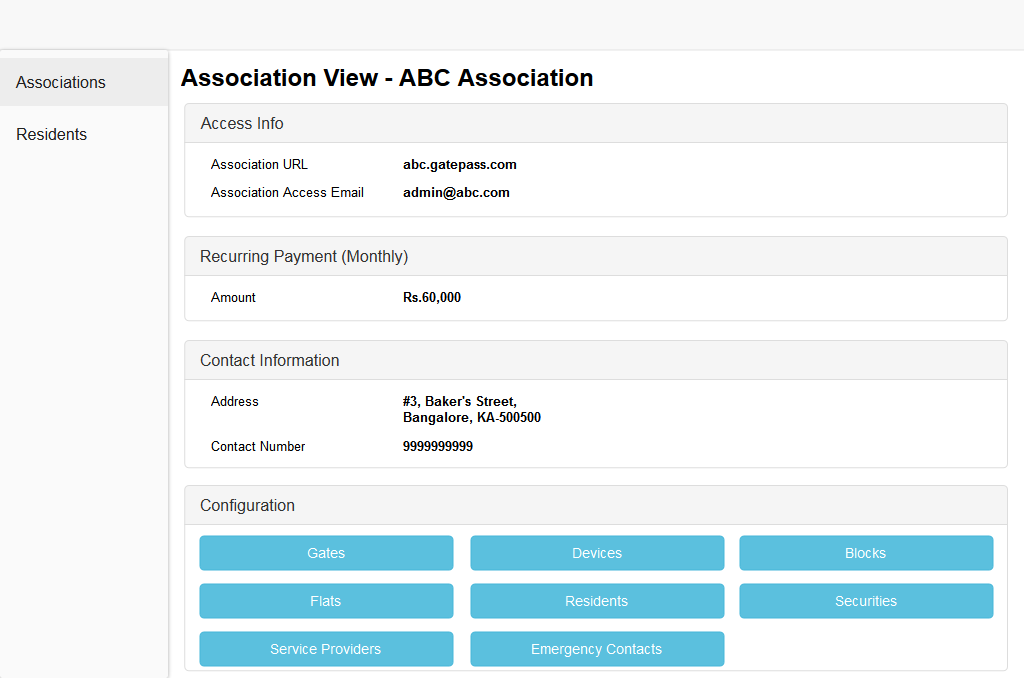
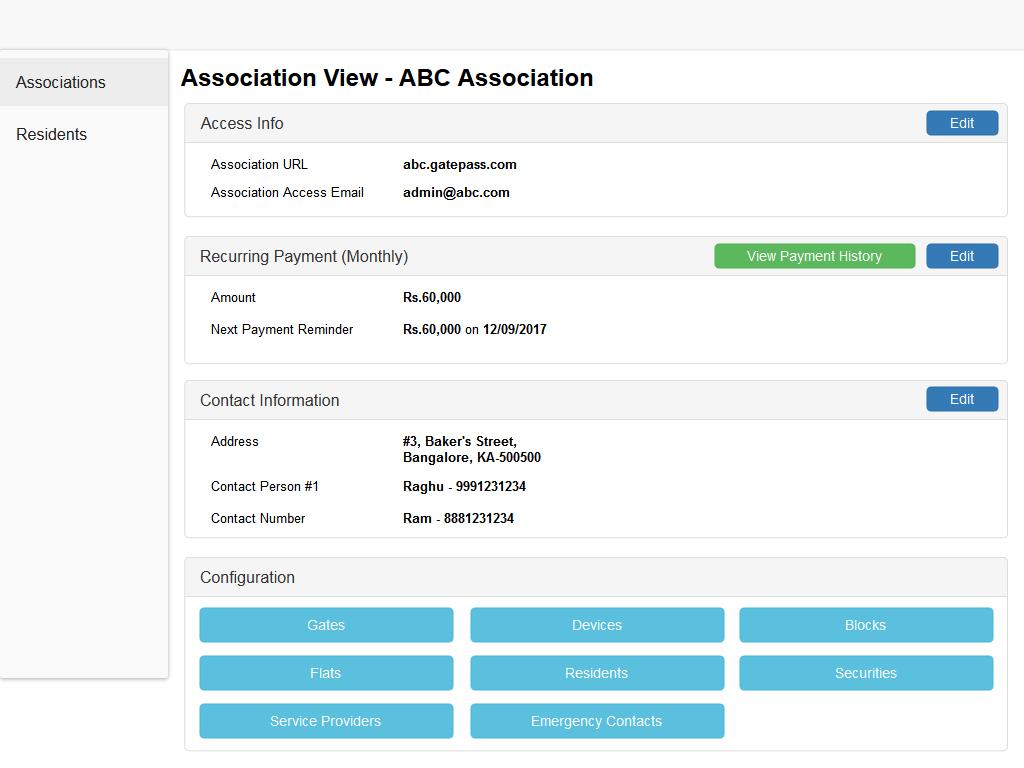
admin_panel draft

diff --git a/admin_panel/index.html b/admin_panel/index.html
@@ -1,3 +1,3 @@
 <html xmlns="http://www.w3.org/1999/xhtml"><head><meta http-equiv="Content-Type" content="text/html; charset=UTF-8" /><meta name="viewport" content="width=device-width, initial-scale=1" /><title>admin_panel.ep</title><script type="text/javascript" src="Resources/Script.js">
                     //
-                </script></head><body><div id="page"><div id="content"><div class="Page" id="1_associations_list_page"><div class="Image"><img width="1024" height="678" src="pages/1_associations_list.png" usemap="#map_1_associations_list" id="1_associations_list_page_image" /><div class="ImageFooter"> </div><map name="map_1_associations_list"><area shape="rect" coords="869,63,1013,105" href="#121_new_association_page" /><area shape="rect" coords="906.75,169,985.75,211" href="#11_association_view_page" /></map></div></div><div class="Page" id="11_association_view_page"><div class="Image"><img width="1024" height="678" src="pages/11_association_view.png" usemap="#map_11_association_view" id="11_association_view_page_image" /><div class="ImageFooter"> </div></div></div><div class="Page" id="121_new_association_page"><div class="Image"><img width="1024" height="768" src="pages/121_new_association.png" usemap="#map_121_new_association" id="121_new_association_page_image" /><div class="ImageFooter"> </div><map name="map_121_new_association"><area shape="rect" coords="909,697,988,739" href="#122_new_association_page" /></map></div></div><div class="Page" id="122_new_association_page"><div class="Image"><img width="1024" height="768" src="pages/122_new_association.png" usemap="#map_122_new_association" id="122_new_association_page_image" /><div class="ImageFooter"> </div><map name="map_122_new_association"><area shape="rect" coords="909,584,988,626" href="#123_new_association_page" /></map></div></div><div class="Page" id="123_new_association_page"><div class="Image"><img width="1024" height="768" src="pages/123_new_association.png" usemap="#map_123_new_association" id="123_new_association_page_image" /><div class="ImageFooter"> </div><map name="map_123_new_association"><area shape="rect" coords="909,472,988,514" href="#124_new_association_page" /></map></div></div><div class="Page" id="124_new_association_page"><div class="Image"><img width="1024" height="768" src="pages/124_new_association.png" usemap="#map_124_new_association" id="124_new_association_page_image" /><div class="ImageFooter"> </div><map name="map_124_new_association"><area shape="rect" coords="909,424,988,466" href="#125_new_association_page" /></map></div></div><div class="Page" id="125_new_association_page"><div class="Image"><img width="1024" height="768" src="pages/125_new_association.png" usemap="#map_125_new_association" id="125_new_association_page_image" /><div class="ImageFooter"> </div><map name="map_125_new_association"><area shape="rect" coords="909,680,988,722" href="#126_new_association_page" /></map></div></div><div class="Page" id="126_new_association_page"><div class="Image"><img width="1024" height="768" src="pages/126_new_association.png" usemap="#map_126_new_association" id="126_new_association_page_image" /><div class="ImageFooter"> </div><map name="map_126_new_association"><area shape="rect" coords="909,360,988,402" href="#127_new_association_page" /></map></div></div><div class="Page" id="127_new_association_page"><div class="Image"><img width="1024" height="768" src="pages/127_new_association.png" usemap="#map_127_new_association" id="127_new_association_page_image" /><div class="ImageFooter"> </div><map name="map_127_new_association"><area shape="rect" coords="909,360,988,402" href="#128_new_association_page" /></map></div></div><div class="Page" id="128_new_association_page"><div class="Image"><img width="1024" height="768" src="pages/128_new_association.png" usemap="#map_128_new_association" id="128_new_association_page_image" /><div class="ImageFooter"> </div><map name="map_128_new_association"><area shape="rect" coords="909,360,988,402" href="#129_new_association_page" /></map></div></div><div class="Page" id="129_new_association_page"><div class="Image"><img width="1024" height="768" src="pages/129_new_association.png" usemap="#map_129_new_association" id="129_new_association_page_image" /><div class="ImageFooter"> </div><map name="map_129_new_association"><area shape="rect" coords="909,240,988,282" href="#11_association_view_page" /></map></div></div></div></div></body></html>
+                </script></head><body><div id="page"><div id="content"><div class="Page" id="1_associations_list_page"><div class="Image"><img width="1024" height="768" src="pages/1_associations_list.png" usemap="#map_1_associations_list" id="1_associations_list_page_image" /><div class="ImageFooter"> </div><map name="map_1_associations_list"><area shape="rect" coords="906.75,266,985.75,308" href="#11_association_view_page" /><area shape="rect" coords="906.75,218,985.75,260" href="#11_association_view_page" /><area shape="rect" coords="906.75,314,985.75,356" href="#11_association_view_page" /><area shape="rect" coords="869,63,1013,105" href="#121_new_association_page" /><area shape="rect" coords="906.75,169,985.75,211" href="#11_association_view_page" /></map></div></div><div class="Page" id="11_association_view_page"><div class="Image"><img width="1024" height="768" src="pages/11_association_view.png" usemap="#map_11_association_view" id="11_association_view_page_image" /><div class="ImageFooter"> </div><map name="map_11_association_view"><area shape="rect" coords="923,383,1002,415" href="#113_association_contact_information_edit_page" /><area shape="rect" coords="923,240,1002,272" href="#112_association_recurring_payment_edit_page" /><area shape="rect" coords="923,107,1002,139" href="#111_association_access_info_edit_page" /></map></div></div><div class="Page" id="121_new_association_page"><div class="Image"><img width="1024" height="768" src="pages/121_new_association.png" usemap="#map_121_new_association" id="121_new_association_page_image" /><div class="ImageFooter"> </div><map name="map_121_new_association"><area shape="rect" coords="909,705,988,747" href="#122_new_association_page" /></map></div></div><div class="Page" id="122_new_association_page"><div class="Image"><img width="1024" height="768" src="pages/122_new_association.png" usemap="#map_122_new_association" id="122_new_association_page_image" /><div class="ImageFooter"> </div><map name="map_122_new_association"><area shape="rect" coords="909,584,988,626" href="#123_new_association_page" /></map></div></div><div class="Page" id="123_new_association_page"><div class="Image"><img width="1024" height="768" src="pages/123_new_association.png" usemap="#map_123_new_association" id="123_new_association_page_image" /><div class="ImageFooter"> </div><map name="map_123_new_association"><area shape="rect" coords="909,472,988,514" href="#124_new_association_page" /></map></div></div><div class="Page" id="124_new_association_page"><div class="Image"><img width="1024" height="768" src="pages/124_new_association.png" usemap="#map_124_new_association" id="124_new_association_page_image" /><div class="ImageFooter"> </div><map name="map_124_new_association"><area shape="rect" coords="909,424,988,466" href="#125_new_association_page" /></map></div></div><div class="Page" id="125_new_association_page"><div class="Image"><img width="1024" height="768" src="pages/125_new_association.png" usemap="#map_125_new_association" id="125_new_association_page_image" /><div class="ImageFooter"> </div><map name="map_125_new_association"><area shape="rect" coords="909,680,988,722" href="#126_new_association_page" /></map></div></div><div class="Page" id="126_new_association_page"><div class="Image"><img width="1024" height="768" src="pages/126_new_association.png" usemap="#map_126_new_association" id="126_new_association_page_image" /><div class="ImageFooter"> </div><map name="map_126_new_association"><area shape="rect" coords="909,360,988,402" href="#127_new_association_page" /></map></div></div><div class="Page" id="127_new_association_page"><div class="Image"><img width="1024" height="768" src="pages/127_new_association.png" usemap="#map_127_new_association" id="127_new_association_page_image" /><div class="ImageFooter"> </div><map name="map_127_new_association"><area shape="rect" coords="909,360,988,402" href="#128_new_association_page" /></map></div></div><div class="Page" id="128_new_association_page"><div class="Image"><img width="1024" height="768" src="pages/128_new_association.png" usemap="#map_128_new_association" id="128_new_association_page_image" /><div class="ImageFooter"> </div><map name="map_128_new_association"><area shape="rect" coords="909,360,988,402" href="#129_new_association_page" /></map></div></div><div class="Page" id="129_new_association_page"><div class="Image"><img width="1024" height="768" src="pages/129_new_association.png" usemap="#map_129_new_association" id="129_new_association_page_image" /><div class="ImageFooter"> </div><map name="map_129_new_association"><area shape="rect" coords="909,240,988,282" href="#11_association_view_page" /></map></div></div><div class="Page" id="111_association_access_info_edit_page"><div class="Image"><img width="1024" height="768" src="pages/111_association_access_info_edit.png" usemap="#map_111_association_access_info_edit" id="111_association_access_info_edit_page_image" /><div class="ImageFooter"> </div><map name="map_111_association_access_info_edit"><area shape="rect" coords="803,111,827,135" href="#11_association_view_page" /><area shape="rect" coords="739,326,818,368" href="#1111_association_access_info_edit_success_page" /></map></div></div><div class="Page" id="1111_association_access_info_edit_success_page"><div class="Image"><img width="1024" height="768" src="pages/1111_association_access_info_edit_success.png" usemap="#map_1111_association_access_info_edit_success" id="1111_association_access_info_edit_success_page_image" /><div class="ImageFooter"> </div><map name="map_1111_association_access_info_edit_success"><area shape="rect" coords="745.5,70.5,1007.5,123.5" href="#11_association_view_page" /><area shape="rect" coords="923,107,1002,139" href="#111_association_access_info_edit_page" /></map></div></div><div class="Page" id="112_association_recurring_payment_edit_page"><div class="Image"><img width="1024" height="768" src="pages/112_association_recurring_payment_edit.png" usemap="#map_112_association_recurring_payment_edit" id="112_association_recurring_payment_edit_page_image" /><div class="ImageFooter"> </div><map name="map_112_association_recurring_payment_edit"><area shape="rect" coords="803,111,827,135" href="#11_association_view_page" /><area shape="rect" coords="739,262,818,304" href="#1121_association_recurring_payment_edit_success_page" /></map></div></div><div class="Page" id="1121_association_recurring_payment_edit_success_page"><div class="Image"><img width="1024" height="768" src="pages/1121_association_recurring_payment_edit_success.png" usemap="#map_1121_association_recurring_payment_edit_success" id="1121_association_recurring_payment_edit_success_page_image" /><div class="ImageFooter"> </div><map name="map_1121_association_recurring_payment_edit_success"><area shape="rect" coords="745.5,70.5,1007.5,123.5" href="#11_association_view_page" /><area shape="rect" coords="923,107,1002,139" href="#111_association_access_info_edit_page" /></map></div></div><div class="Page" id="113_association_contact_information_edit_page"><div class="Image"><img width="1024" height="768" src="pages/113_association_contact_information_edit.png" usemap="#map_113_association_contact_information_edit" id="113_association_contact_information_edit_page_image" /><div class="ImageFooter"> </div><map name="map_113_association_contact_information_edit"><area shape="rect" coords="803,111,827,135" href="#11_association_view_page" /><area shape="rect" coords="739,398,818,440" href="#1131_association_contact_information_edit_success_page" /></map></div></div><div class="Page" id="1131_association_contact_information_edit_success_page"><div class="Image"><img width="1024" height="768" src="pages/1131_association_contact_information_edit_success.png" usemap="#map_1131_association_contact_information_edit_success" id="1131_association_contact_information_edit_success_page_image" /><div class="ImageFooter"> </div><map name="map_1131_association_contact_information_edit_success"><area shape="rect" coords="745.5,70.5,1007.5,123.5" href="#11_association_view_page" /><area shape="rect" coords="923,107,1002,139" href="#111_association_access_info_edit_page" /></map></div></div><div class="Page" id="114_association_gates_view_page"><div class="Image"><img width="1024" height="768" src="pages/114_association_gates_view.png" usemap="#map_114_association_gates_view" id="114_association_gates_view_page_image" /><div class="ImageFooter"> </div><map name="map_114_association_gates_view"><area shape="rect" coords="794,108,1002,140" href="#1141_association_gates_create_page" /><area shape="rect" coords="891,210,995,242" href="#1142_association_gates_edit_page" /><area shape="rect" coords="891,177,995,209" href="#1142_association_gates_edit_page" /></map></div></div><div class="Page" id="1141_association_gates_create_page"><div class="Image"><img width="1024" height="768" src="pages/1141_association_gates_create.png" usemap="#map_1141_association_gates_create" id="1141_association_gates_create_page_image" /><div class="ImageFooter"> </div><map name="map_1141_association_gates_create"><area shape="rect" coords="803,111,827,135" href="#114_association_gates_view_page" /><area shape="rect" coords="739,208,818,250" href="#11411_association_gates_create_success_page" /></map></div></div><div class="Page" id="11411_association_gates_create_success_page"><div class="Image"><img width="1024" height="768" src="pages/11411_association_gates_create_success.png" usemap="#map_11411_association_gates_create_success" id="11411_association_gates_create_success_page_image" /><div class="ImageFooter"> </div><map name="map_11411_association_gates_create_success"><area shape="rect" coords="745.5,70.5,1007.5,123.5" href="#114_association_gates_view_page" /><area shape="rect" coords="891,243,995,275" href="#1142_association_gates_edit_page" /><area shape="rect" coords="794,108,1002,140" href="#1141_association_gates_create_page" /><area shape="rect" coords="891,210,995,242" href="#1142_association_gates_edit_page" /><area shape="rect" coords="891,177,995,209" href="#1142_association_gates_edit_page" /></map></div></div><div class="Page" id="1142_association_gates_edit_page"><div class="Image"><img width="1024" height="768" src="pages/1142_association_gates_edit.png" usemap="#map_1142_association_gates_edit" id="1142_association_gates_edit_page_image" /><div class="ImageFooter"> </div><map name="map_1142_association_gates_edit"><area shape="rect" coords="803,111,827,135" href="#114_association_gates_view_page" /><area shape="rect" coords="739,208,818,250" href="#11421_association_gates_edit_success_page" /></map></div></div><div class="Page" id="11421_association_gates_edit_success_page"><div class="Image"><img width="1024" height="768" src="pages/11421_association_gates_edit_success.png" usemap="#map_11421_association_gates_edit_success" id="11421_association_gates_edit_success_page_image" /><div class="ImageFooter"> </div><map name="map_11421_association_gates_edit_success"><area shape="rect" coords="745.5,70.5,1007.5,123.5" href="#114_association_gates_view_page" /><area shape="rect" coords="794,108,1002,140" href="#1141_association_gates_create_page" /><area shape="rect" coords="891,210,995,242" href="#1142_association_gates_edit_page" /><area shape="rect" coords="891,177,995,209" href="#1142_association_gates_edit_page" /></map></div></div></div></div></body></html>
